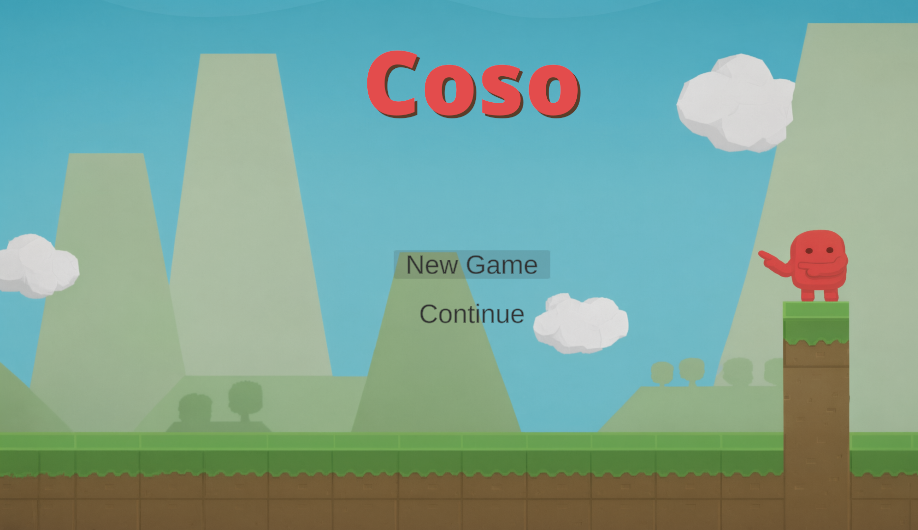
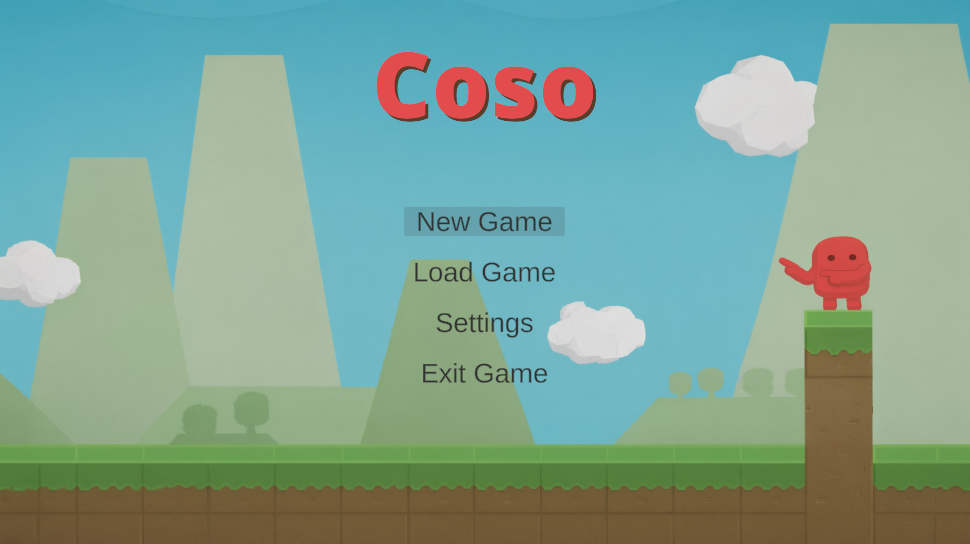
Actualización manual de usuario

diff --git a/documentación/manualUsuario.md b/documentación/manualUsuario.md
@@ -2,8 +2,28 @@
 
 ## Menú principal
 
-Se compone de 2 botones, uno para iniciar una partida nueva y otra para continuar la partida guardada.
+Se compone de 3-4 botones, el primero te permite crear una nueva partida, el segundo te permite cargar una partida existente, el tercero te permite cambiar ajustes del juego como el audio y por último salir del juego (solo disponible en windows, linux y mac).
 ![imagen menu principal](img/inicio.png)
+
+### Nuevo juego
+
+El primer botón ofrece 3 slots donde puedes almacenar tu partida. El primer slot es el que esta seleccionado, el segundo tiene una partida guardada que puede ser sobreescrita y el tercero puedes guardar partida, pero no esta seleccionado
+![imagen save slots nuevo juego](img/saveSlotsNuevoJuego.png)
+
+### Cargar juego
+
+Aqui se muestran nuevamente los 3 slots, pero los slots que no tienen partida vienen sin posibilidad de iteractuar y el primer slot con una partida es marcado (si, tiene la misma tonalidad que el deshabilitado)
+![imagen save slots cargar juego](img/saveSlotsCargarJuego.png)
+
+### Ajustes
+
+Permite hacer cambios en la configuración de juego tiene 3-5 opciones. La primera y segunda solo estan disponibles en windows, linux y mac donde puedes definir si jugar a pantalla completa o ventana y seleccionar la resolución. Estas se detectan a partir de las que soporta tu monitor. El audio de la música de fondo y los efectos que esta para todas las plataformas. Por último, puedes cambiar los fps objetivos, pero la configuración existente en tu dispositivo puedes sobreescribir estas modificaciones. Este comportamiento ha sido identificado en dispositivos android en ciertos modos de ahorro de energia.
+![imagen ajustes](img/ajustes.png)
+
+### Partida guardada
+
+El slot muestra un total de 4 valores relevantes de la partida. El primero consiste en el nivel en el cual se encuentra el jugador, el segundo el número de vidas actuales, las monedas actuales y finalmente la cantidad de estrellas que tiene recolectadas.
+![imagen slot](img/saveSlot.png)
 
 ## Mundo base
 
@@ -25,7 +45,7 @@ Cada nivel alberga tres estrellas como las de la imagen para ser obtenidas en ub
 ![imagen estrella nivel ejemplo](img/nivelEstrellaEjemplo.png)
 
 
-# Has perdido
+## Has perdido
 
 Esta pantalla salta cuando tu contador de vidas llega a 0 indicando que has perdido y restablece tu partida automáticamente y el contador de vidas a 5
 
